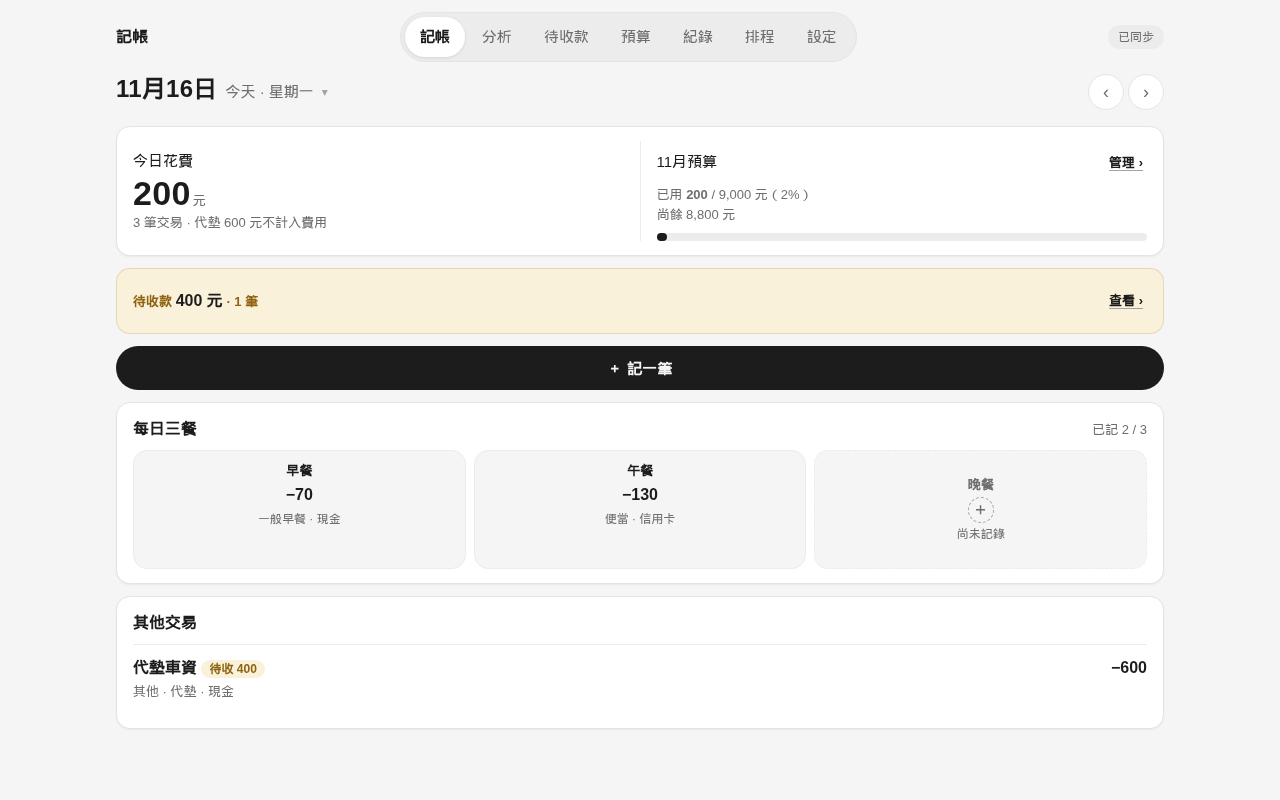
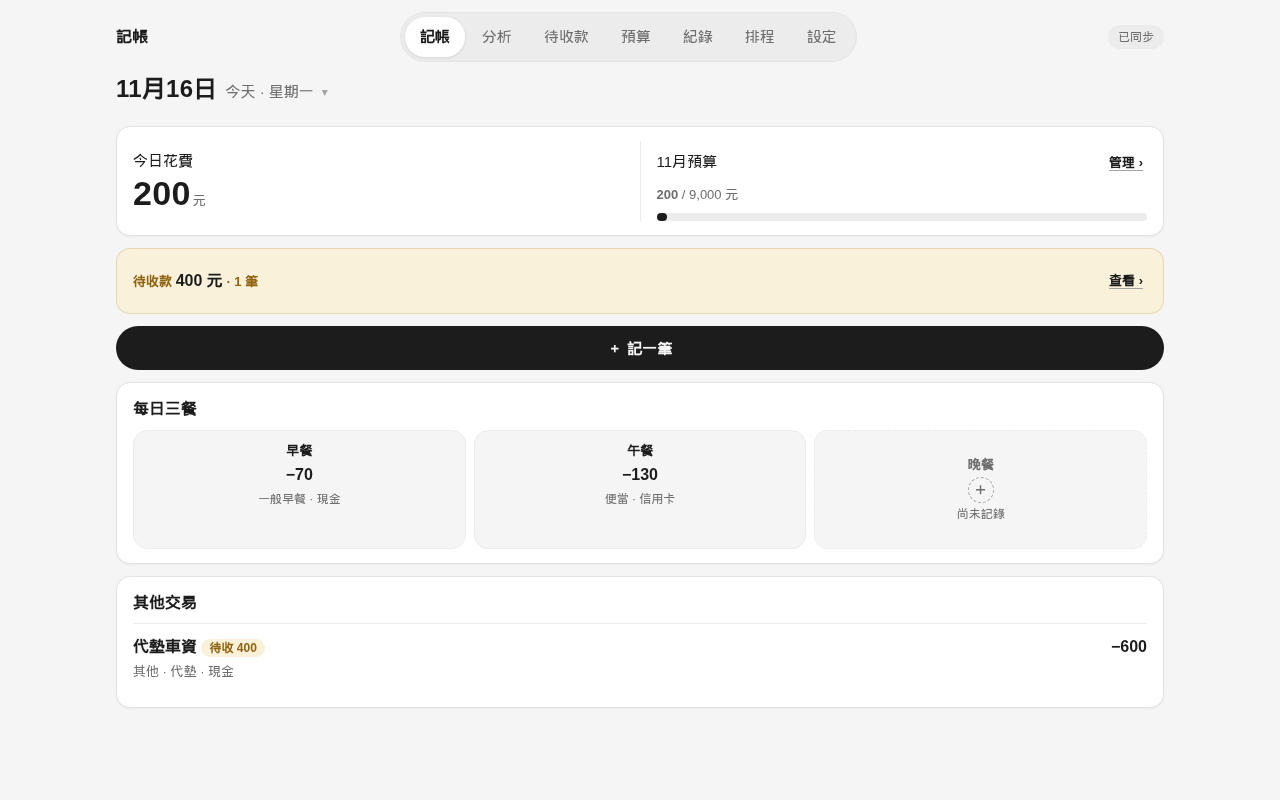
bookkeeping review: v3.4c trims + font options page

diff --git a/bookkeeping-review/font-options/index.html b/bookkeeping-review/font-options/index.html
@@ -1,0 +1,194 @@
+<!DOCTYPE html>
+<html lang="zh-Hant">
+<head>
+<meta charset="utf-8">
+<meta name="viewport" content="width=device-width, initial-scale=1, viewport-fit=cover">
+<title>字體選擇 · 記帳 App</title>
+<link rel="preconnect" href="https://fonts.googleapis.com">
+<link rel="preconnect" href="https://fonts.gstatic.com" crossorigin>
+<link href="https://fonts.googleapis.com/css2?family=Noto+Sans+TC:wght@400;500;700&family=Noto+Serif+TC:wght@400;600;700&display=swap" rel="stylesheet">
+<link href="https://cdn.jsdelivr.net/npm/lxgw-wenkai-tc-webfont@latest/style.css" rel="stylesheet">
+<style>
+  @font-face {
+    font-family: 'jf-openhuninn';
+    font-style: normal;
+    font-weight: 400;
+    font-display: swap;
+    src: url('https://cdn.jsdelivr.net/gh/justfont/open-huninn-font@master/font/jf-openhuninn-2.1.ttf') format('truetype');
+  }
+  :root {
+    --bg: #f5f5f5;
+    --surface: #ffffff;
+    --line: #e4e4e4;
+    --softline: #ececec;
+    --ink: #1c1c1c;
+    --muted: #6e6e6e;
+    --faint: #a3a3a3;
+    --radius: 14px;
+    --shadow: 0 1px 2px rgba(0,0,0,.05);
+  }
+  * { box-sizing: border-box; }
+  body {
+    margin: 0;
+    background: #e9e9e9;
+    color: var(--ink);
+    font: 15px/1.55 -apple-system, BlinkMacSystemFont, "PingFang TC", "Noto Sans TC", "Microsoft JhengHei", sans-serif;
+  }
+  .wrap { max-width: 460px; margin: 0 auto; padding: 16px 12px 48px; }
+  header { padding: 8px 6px 14px; }
+  h1 { font-size: 20px; margin: 0 0 6px; }
+  header p { margin: 4px 0; color: var(--muted); font-size: 13px; }
+
+  .opt { margin: 0 0 28px; }
+  .opt-tag {
+    display: flex; align-items: baseline; gap: 8px; padding: 0 6px 8px;
+  }
+  .opt-letter {
+    display: inline-flex; align-items: center; justify-content: center;
+    width: 26px; height: 26px; border-radius: 8px;
+    background: #1c1c1c; color: #fff; font-weight: 700; font-size: 14px;
+    flex: none;
+  }
+  .opt-name { font-weight: 700; font-size: 15px; }
+  .opt-note { color: var(--muted); font-size: 12.5px; }
+
+  /* phone frame */
+  .phone {
+    background: var(--bg);
+    border: 1px solid var(--line);
+    border-radius: 18px;
+    overflow: hidden;
+    box-shadow: var(--shadow);
+    padding: 12px 10px;
+  }
+  .card {
+    background: var(--surface);
+    border: 1px solid var(--line);
+    border-radius: var(--radius);
+    box-shadow: var(--shadow);
+    padding: 12px 14px;
+    margin-bottom: 10px;
+  }
+  .date { font-size: 16px; font-weight: 700; margin-bottom: 10px; padding: 0 2px; }
+  .row { display: flex; justify-content: space-between; align-items: baseline; gap: 10px; }
+  .label { font-size: 12px; color: var(--muted); }
+  .hero { font-size: 30px; font-weight: 700; letter-spacing: .5px; }
+  .hero small { font-size: 13px; font-weight: 400; color: var(--muted); margin-left: 2px; }
+  .budget-head { font-size: 12px; color: var(--muted); display: flex; justify-content: space-between; }
+  .budget-nums { font-size: 14px; margin-top: 2px; }
+  .budget-nums b { font-weight: 700; }
+  .bar { height: 6px; border-radius: 3px; background: var(--softline); margin-top: 7px; overflow: hidden; }
+  .bar i { display: block; height: 100%; width: 22%; background: #1c1c1c; border-radius: 3px; }
+  .meals { display: grid; grid-template-columns: 1fr 1fr 1fr; gap: 8px; }
+  .meal {
+    border: 1px solid var(--softline); border-radius: 10px; padding: 8px 10px;
+  }
+  .meal .m-label { font-size: 12px; color: var(--muted); }
+  .meal .m-amt { font-size: 16px; font-weight: 700; margin-top: 2px; }
+  .meal .m-amt .dash { color: var(--faint); font-weight: 400; }
+  .meta-line { font-size: 13px; color: var(--muted); }
+  .entry {
+    display: flex; align-items: center; gap: 8px;
+    background: var(--surface); border: 1px solid var(--line); border-radius: var(--radius);
+    padding: 10px 12px;
+  }
+  .entry .amt { font-size: 16px; font-weight: 700; flex: 1; color: var(--faint); font-weight: 400; }
+  .entry .pill {
+    background: #1c1c1c; color: #fff; font-size: 13px; border-radius: 999px; padding: 4px 14px;
+  }
+  .sample-long { font-size: 13px; color: var(--muted); margin-top: 6px; }
+
+  .fA { font-family: -apple-system, BlinkMacSystemFont, "PingFang TC", "Microsoft JhengHei", sans-serif; }
+  .fB { font-family: "Noto Sans TC", -apple-system, "PingFang TC", sans-serif; }
+  .fC { font-family: "Noto Serif TC", "Songti TC", serif; }
+  .fD { font-family: "LXGW WenKai TC", "Noto Serif TC", serif; }
+  .fE { font-family: "jf-openhuninn", "Noto Sans TC", sans-serif; }
+
+  footer { padding: 18px 6px 0; color: var(--muted); font-size: 13px; }
+  footer .big { font-size: 15px; color: var(--ink); font-weight: 700; margin-bottom: 6px; }
+  footer p { margin: 4px 0; }
+  a { color: #1c1c1c; }
+</style>
+</head>
+<body>
+<div class="wrap">
+  <header>
+    <h1>字體怎麼選</h1>
+    <p>五種字體，同一段畫面、同樣的文字。載入的是實際字型檔，你在 iPhone 上看到的就是裝進 App 後的樣子（E 粉圓檔案較大，第一次載入要等幾秒）。</p>
+    <p>畫面內容照目前版本：今日花費、月預算、三餐、分析列、記一筆。</p>
+  </header>
+
+  <div id="mount"></div>
+
+  <footer>
+    <div class="big">回覆編號即可（A / B / C / D / E）</div>
+    <p>也可以說想混搭，例如「標題用 D、其他用 A」，或「數字要用最好認的」。</p>
+    <p>A 是現在的版本：直接用 iPhone 內建字體，載入最快、不用額外抓字型檔。B 到 E 都要從網路載入字型（約 0.3 到 5 MB 不等，之後會快取）。</p>
+    <p><a href="../">回提案頁</a></p>
+  </footer>
+</div>
+
+<template id="sample">
+  <div class="phone">
+    <div class="date">11月25日 星期二</div>
+    <div class="card">
+      <div class="row">
+        <div>
+          <div class="label">今日花費</div>
+          <div class="hero">200<small>元</small></div>
+        </div>
+        <div style="text-align:right">
+          <div class="budget-head"><span>11月預算</span><span>管理›</span></div>
+          <div class="budget-nums"><b>200</b> / 9,000 元</div>
+          <div class="bar"><i></i></div>
+        </div>
+      </div>
+    </div>
+    <div class="card">
+      <div class="label" style="margin-bottom:8px">每日三餐</div>
+      <div class="meals">
+        <div class="meal"><div class="m-label">早餐</div><div class="m-amt">120</div></div>
+        <div class="meal"><div class="m-label">午餐</div><div class="m-amt">80</div></div>
+        <div class="meal"><div class="m-label">晚餐</div><div class="m-amt"><span class="dash">—</span></div></div>
+      </div>
+    </div>
+    <div class="card">
+      <div class="meta-line">11月已記 8 天 · 最多花費：餐飲 2,600 元</div>
+      <div class="sample-long">早餐 7-11 飯糰加豆漿 65 元，午餐便當 80 元，交通 55 元，共 200 元。</div>
+    </div>
+    <div class="entry">
+      <span style="font-size:13px;color:var(--muted)">記一筆</span>
+      <span class="amt">0</span>
+      <span class="pill">支出</span>
+    </div>
+  </div>
+</template>
+
+<script>
+  var fonts = [
+    { cls: 'fA', letter: 'A', name: '系統預設（現行）', note: 'iPhone 內建蘋方體，載入最快' },
+    { cls: 'fB', letter: 'B', name: 'Noto Sans TC 思源黑體', note: 'Google 與 Adobe 合製，清晰俐落' },
+    { cls: 'fC', letter: 'C', name: 'Noto Serif TC 思源宋體', note: '宋體書卷感，典雅耐看' },
+    { cls: 'fD', letter: 'D', name: 'LXGW WenKai 霞鶩文楷', note: '楷書手寫感，溫潤易讀' },
+    { cls: 'fE', letter: 'E', name: 'jf open 粉圓', note: '圓體可愛親切，台灣 justfont 釋出' }
+  ];
+  var tpl = document.getElementById('sample');
+  var mount = document.getElementById('mount');
+  fonts.forEach(function (f) {
+    var sec = document.createElement('section');
+    sec.className = 'opt';
+    var tag = document.createElement('div');
+    tag.className = 'opt-tag';
+    tag.innerHTML = '<span class="opt-letter"></span><span class="opt-name"></span><span class="opt-note"></span>';
+    tag.querySelector('.opt-letter').textContent = f.letter;
+    tag.querySelector('.opt-name').textContent = f.name;
+    tag.querySelector('.opt-note').textContent = f.note;
+    var sample = tpl.content.firstElementChild.cloneNode(true);
+    sample.classList.add(f.cls);
+    sec.appendChild(tag);
+    sec.appendChild(sample);
+    mount.appendChild(sec);
+  });
+</script>
+</body>
+</html>

diff --git a/bookkeeping-review/index.html b/bookkeeping-review/index.html
@@ -42,17 +42,22 @@
 
 <header>
   <h1>記帳 App 改版研究與提案</h1>
-  <div class="meta">v3.4 預覽 ・ 2026-11-25 ・ 依你 11/25 的回饋做的第三輪修改</div>
+  <div class="meta">v3.4c 預覽 ・ 2026-11-25 ・ 依你 11/25 的回饋做的第四輪修改</div>
 </header>
 
 <div class="note">
   試用站目前仍是 v3.2.1，沒有動。這一頁是研究說明＋新版畫面預覽，你看過、覺得可以，我才會更新試用站。
 </div>
 
-<h2>一、這次改了什麼（對照你的四點回饋）</h2>
+<h2>一、這次改了什麼（對照你的回饋）</h2>
+
+<div class="note" style="margin-top:6px">
+  <strong>最新一輪（11/25 14:27 回饋）：</strong>刪掉了「3 筆・不計入費用」註記、「已用」標籤、「（2%）」百分比、「尚餘」列、「已記 2/3」，以及日期左右箭頭（直接點日期本身就能換日期）。總覽卡右邊現在只剩 <strong>200 / 9,000 元</strong> 和進度條。<br>
+  字體多元選擇在這裡：<a href="font-options/"><strong>五種字體實際渲染比較</strong></a>（同一段畫面、同樣文字，回覆編號 A–E 即可）。
+</div>
 
 <h3>1. 一張卡看完今天和本月</h3>
-<p>日檢視頂部現在只有一張總覽卡：左邊是「今日花費」大數字和筆數，右邊是「11月預算」的已用／總額、百分比、尚餘和進度條，右上角有「管理 ›」直達預算設定。每天可用金額、用量／時間百分比、額度計算說明這些細節全部搬到「分析」頁，不再塞在首屏。</p>
+<p>日檢視頂部現在只有一張總覽卡：左邊是「今日花費」大數字，右邊是「11月預算」的數字（200 / 9,000 元）和進度條，右上角有「管理 ›」直達預算設定。每天可用金額、用量／時間百分比、額度計算說明這些細節全部搬到「分析」頁，不再塞在首屏。</p>
 <div class="shot">
   <img src="shots/mobile-day-top.png" alt="日檢視：一張總覽卡，左今日花費、右本月預算進度">
   <div class="cap">日檢視（iPhone 尺寸截圖）：一張卡＝今日花費＋本月預算進度。下面依序是待收款、每日三餐（早／午／晚三格並排）、其他交易。</div>
@@ -73,7 +78,7 @@
 </div>
 
 <h3>4. 頁面縮短：用並排取代堆疊</h3>
-<p>三餐從三條高列改成早／午／晚三格並排，總覽卡左右並排。實際量測：iPhone 常見尺寸（390×844）整頁剛好一屏放完、不用捲動；較小的螢幕（320×700）只超出 214px，且最後一張卡片不會被底部列遮住。</p>
+<p>三餐從三條高列改成早／午／晚三格並排，總覽卡左右並排。實際量測：iPhone 常見尺寸（390×844）整頁剛好一屏放完（頁高 844、可見 844，不需捲動）；較小的螢幕（320×700）超出 144px，且最後一張卡片不會被底部列遮住。</p>
 <div class="shot wide">
   <img src="shots/desktop-day.png" alt="電腦版日檢視">
   <div class="cap">電腦版同步調整。</div>
@@ -131,7 +136,7 @@
 </ul>
 
 <footer>
-  v3.4 改版提案 ・ 資料結構、記帳規則、權限規則都沒有改動 ・ 試用站維持 v3.2.1，待你確認後才更新
+  v3.4c 改版提案 ・ 資料結構、記帳規則、權限規則都沒有改動 ・ 試用站維持 v3.2.1，待你確認後才更新
 </footer>
 
 </div>
